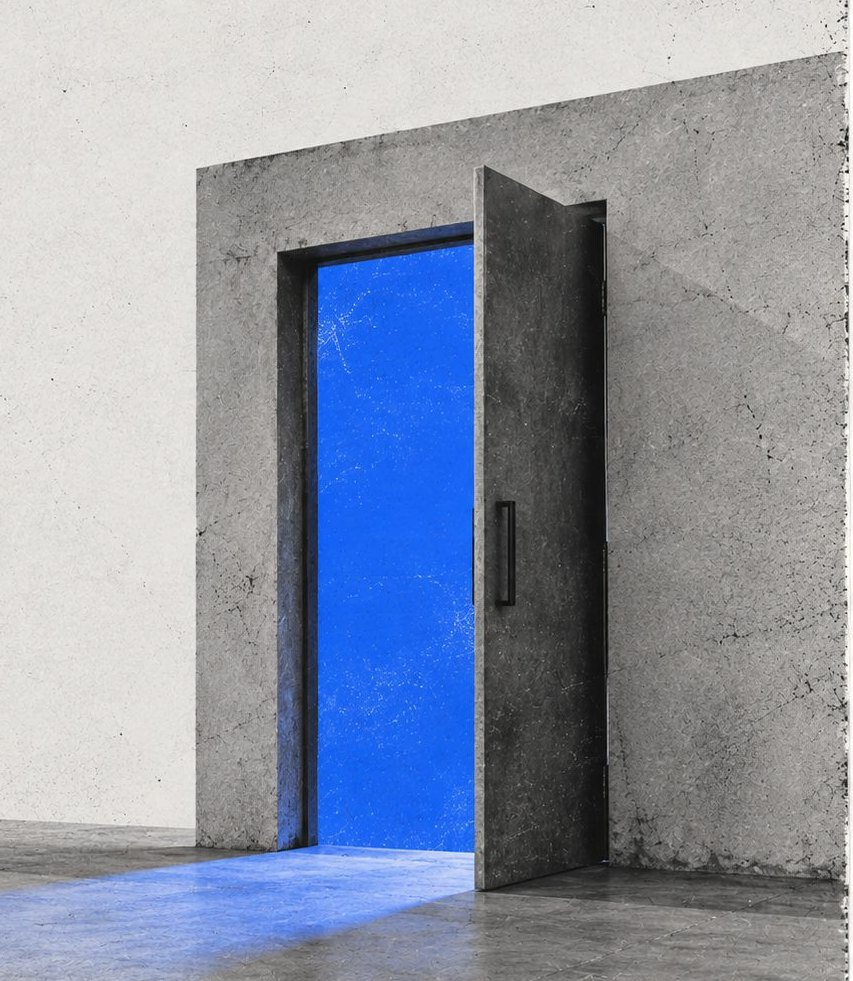
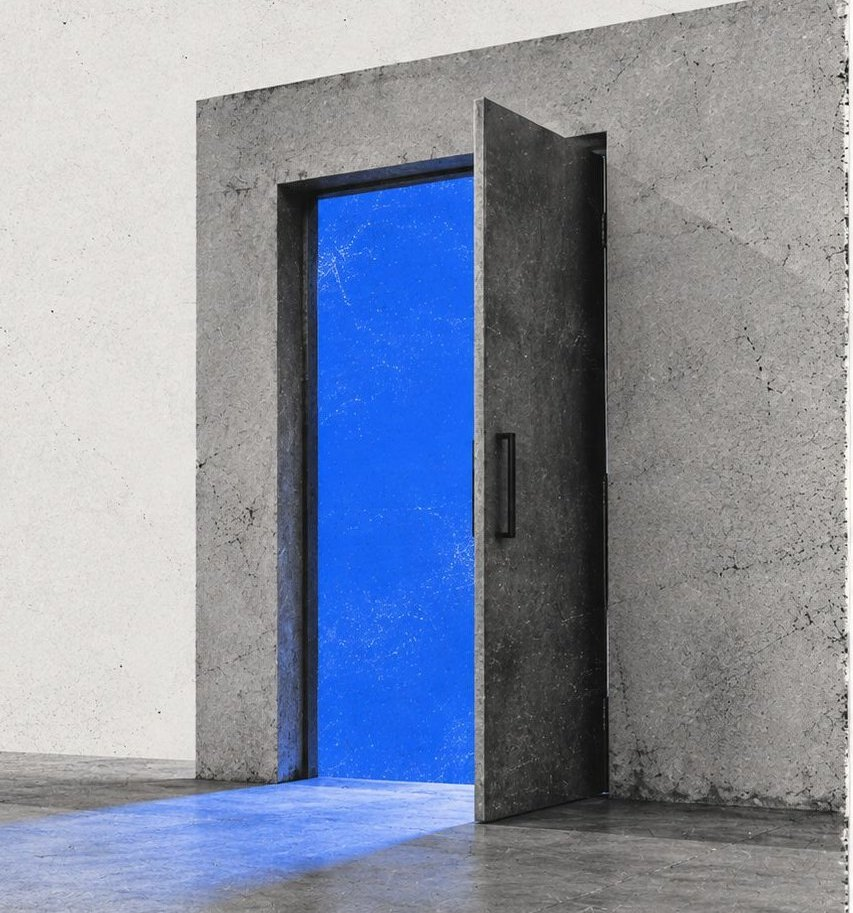
Door crop, robust waveform height

diff --git a/index.html b/index.html
@@ -309,7 +309,7 @@ document.querySelectorAll('h1,h2').forEach(h=>h.querySelectorAll('.l').forEach((
 
 /* one continuous waveform, N screens wide. Seeded so it is the same song every time. */
 const wave=document.getElementById('wave'),wp=document.getElementById('wp');
-function buildWave(){const W=innerWidth,H=wave.clientHeight||70,step=6,total=W*N;let seed=7,d='';
+function buildWave(){const W=innerWidth||1280,H=Math.round(wave.getBoundingClientRect().height)||70,step=6,total=W*N;let seed=7,d='';
   const rnd=()=>(seed=(seed*16807)%2147483647)/2147483647;
   for(let x=0,i=0;x<=total;x+=step,i++){const t=x/W;
     const swell=.25+.75*Math.pow(Math.sin(Math.PI*(t%1)),2);
